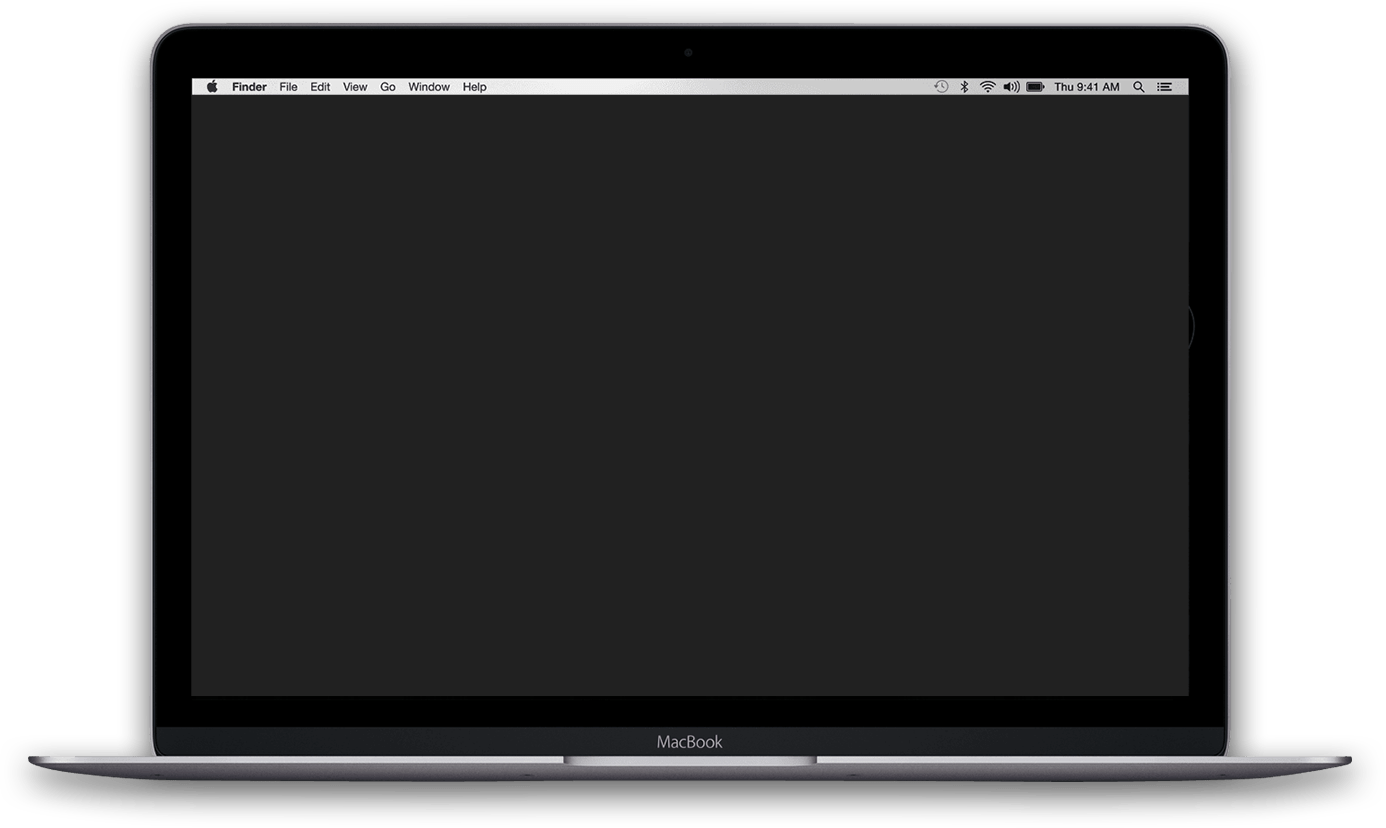
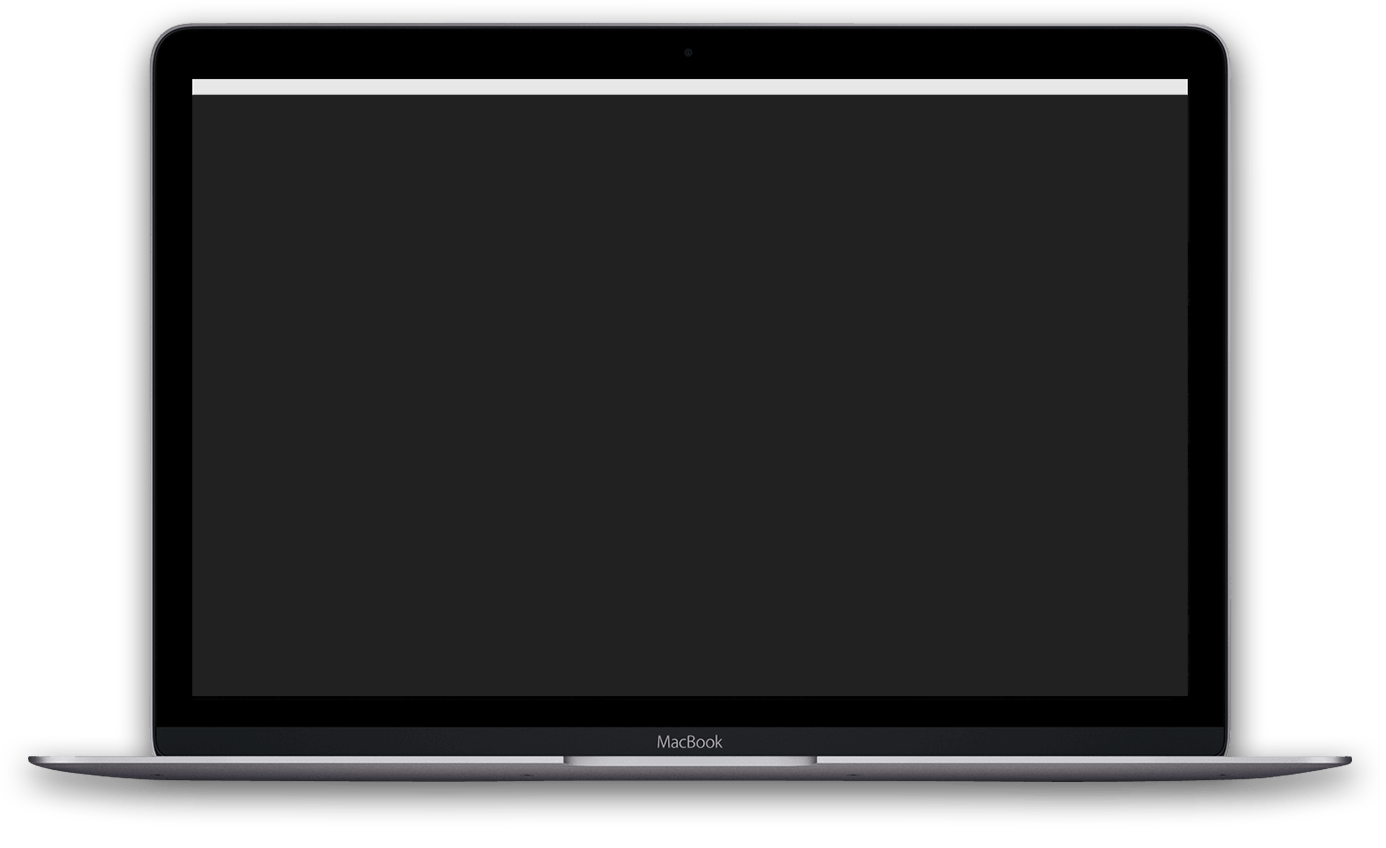
Updated laptop image.

Changed region(s): [[0.0, 0.8152, 0.9928, 0.9964], [0.1241, 0.0906, 0.8687, 0.1208]]

diff --git a/frontend/src/components/project-carousel-page/DeviceDisplay.module.scss b/frontend/src/components/project-carousel-page/DeviceDisplay.module.scss
@@ -1,5 +1,4 @@
 @use "@/styles/global" as *;
-@use "sass:math";
 
 .device-presentation {
   height: 420px;
@@ -7,7 +6,8 @@
   background-size: contain;
   background-repeat: no-repeat;
   box-sizing: border-box;
-  // Too much jank?
+  pointer-events: none;
+  // May introduce jank:
   filter: grayscale(0.5) blur(1px);
   will-change: filter;
   transition: filter 0.4s ease-in-out;
@@ -41,8 +41,8 @@
       left: 97px;
       height: 310px;
       width: 500px;
-      transition: transform 0.4s ease-in-out;
-      will-change: transform;
+      // transition: transform 0.4s ease-in-out;
+      // will-change: transform;
     }
   }
 